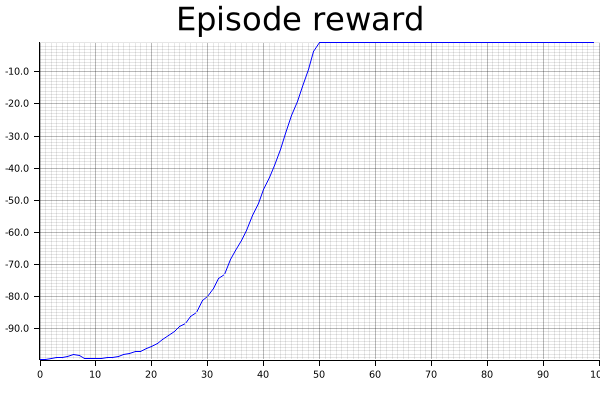
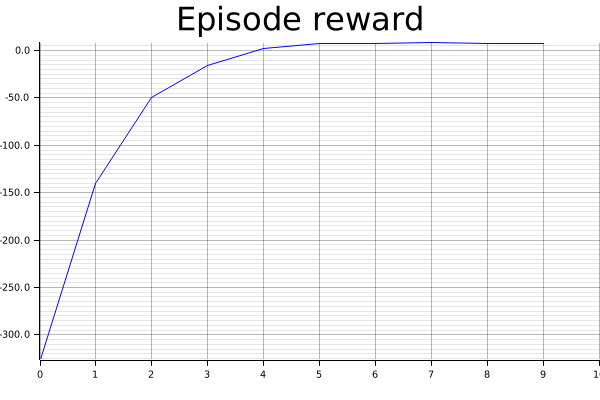
adding taxi env

diff --git a/src/main.rs b/src/main.rs
@@ -7,26 +7,27 @@ use plotters::style::{BLUE, WHITE};
 
 use reinforcement_learning::algorithms::action_selection::{UniformEpsilonGreed, UpperConfidenceBound};
 use reinforcement_learning::algorithms::policy_update::{QStep, SarsaStep, SarsaLambda, QLambda};
-use reinforcement_learning::env::{BlackJackEnv, Env, EnvNotReady, FrozenLakeEnv, CliffWalkingEnv};
+use reinforcement_learning::env::{Env, EnvNotReady, BlackJackEnv, FrozenLakeEnv, CliffWalkingEnv, TaxiEnv};
 use reinforcement_learning::utils::moving_average;
 use reinforcement_learning::{Agent, Policy};
 
 fn main() {
     let learning_rate: f64 = 0.05;
-    let n_episodes: i32 = 1_000_000;
+    let n_episodes: i32 = 100_000;
     let start_epsilon: f64 = 1.0;
     let epsilon_decay: f64 = start_epsilon / (n_episodes as f64 / 2.0);
     let final_epsilon: f64 = 0.0;
     let confidence_level: f64 = 0.8;
     let discount_factor: f64 = 0.95;
     let lambda_factor: f64 = 0.5;
-    let max_steps = 1000;
+    let max_steps: u128 = 100;
     // let mut env = BlackJackEnv::new();
     // let mut env = FrozenLakeEnv::new(&FrozenLakeEnv::MAP_4X4, true, max_steps);
-    let mut env = CliffWalkingEnv::new(max_steps);
+    // let mut env = CliffWalkingEnv::new(max_steps);
+    let mut env = TaxiEnv::new(max_steps);
 
-    // let policy_update_strategy = QLambda::new(learning_rate, discount_factor, lambda_factor, 0.0, env.action_space());
-    let policy_update_strategy = QStep::new(learning_rate, discount_factor);
+    let policy_update_strategy = QLambda::new(learning_rate, discount_factor, lambda_factor, 0.0, env.action_space());
+    // let policy_update_strategy = QStep::new(learning_rate, discount_factor);
     let action_selection_strategy = UniformEpsilonGreed::new(start_epsilon, epsilon_decay, final_epsilon);
     // let action_selection_strategy = UpperConfidenceBound::new(confidence_level);
     let policy = Policy::new(0.0, env.action_space());
@@ -40,8 +41,36 @@ fn main() {
 
     let mut reward_history: Vec<f64> = vec![];
 
+    // manual test
+    // use std::io;
+    // let mut curr_obs = env.reset();
+    // let mut final_reward = 0.0;
+    // loop {
+    //     let (row,col,source,target) = TaxiEnv::decode(curr_obs);
+    //     println!("curr_pos {:?}", (row, col));
+    //     println!("curr_source {:?}", if source < 4 {TaxiEnv::LOCS[source]} else {(row, col)});
+    //     println!("curr_target {:?}", TaxiEnv::LOCS[target]);
+    //     println!("actions {:?}", TaxiEnv::ACTIONS);
+    //     let mut user_input = String::new();
+    //     io::stdin().read_line(&mut user_input).unwrap();
+    //     user_input = user_input.trim().to_string();
+    //     println!("input {} ", user_input);
+    //     let curr_action: usize = user_input.parse::<usize>().unwrap();
+    //     println!("curr_action {:?}", curr_action);
+    //     let (next_obs, reward, terminated) = env.step(curr_action).unwrap();
+    //     println!("reward {:?}", reward);
+    //     final_reward += reward;
+    //     curr_obs = next_obs;
+    //     if terminated {
+    //         println!("final_obs {:?}", TaxiEnv::decode(curr_obs));
+    //         println!("final_reward {:?}", final_reward);
+    //         break;
+    //     }
+    // }
+
     let now: Instant = Instant::now();
     for _episode in 0..n_episodes {
+        let mut epi_reward = 0.0;
         let mut curr_obs = env.reset();
         let mut curr_action: usize = agent.get_action(&curr_obs);
         // println!("curr_obs {:?}", curr_obs);
@@ -62,8 +91,9 @@ fn main() {
                     // println!("curr_action {:?}", next_action);
                     curr_obs = next_obs;
                     curr_action = next_action;
+                    epi_reward += reward;
                     if terminated {
-                        reward_history.push(reward);
+                        reward_history.push(epi_reward);
                         break;
                     }
                 }
@@ -77,10 +107,11 @@ fn main() {
     let elapsed: std::time::Duration = now.elapsed();
     println!("Elapsed: {:.2?}", elapsed);
 
-    let values_moving_average: Vec<f64> =
-        moving_average(n_episodes as usize / 100, &reward_history);
+    let values_moving_average: Vec<f64> = moving_average(n_episodes as usize / 100, &reward_history);
     let min_reward = values_moving_average.iter().copied().reduce(f64::min).unwrap();
     let max_reward = values_moving_average.iter().copied().reduce(f64::max).unwrap();
+
+    println!("min {:?}, max {:?}", min_reward, max_reward);
 
     let root_area = BitMapBackend::new("test.png", (600, 400)).into_drawing_area();
     root_area.fill(&WHITE).unwrap();
@@ -102,30 +133,34 @@ fn main() {
     ))
     .unwrap();
 
-    let mut curr_obs = env.reset();
-    let mut curr_action: usize = agent.get_action(&curr_obs);
-    let mut steps: i32 = 0;
-    loop {
-        steps+=1;
-        match env.step(curr_action) {
-            Ok((next_obs, reward, terminated)) => {
-                let next_action: usize = agent.get_action(&next_obs);
-                println!("curr_obs {:?}", curr_obs);
-                println!("curr_action {:?}", curr_action);
-                println!("reward {:?}", reward);
-                curr_obs = next_obs;
-                curr_action = next_action;
-                if terminated {
-                    println!("next_obs {:?}", curr_obs);
-                    println!("terminated with {:?} steps", steps);
-                    break;
-                }
-            }
-            Err(EnvNotReady) => {
-                println!("Environment is not ready to receive actions!");
-                break;
-            }
-        }
-    }
+
+    // let mut epi_reward = 0.0;
+    // let mut curr_obs = env.reset();
+    // let mut curr_action: usize = agent.get_action(&curr_obs);
+    // let mut steps: i32 = 0;
+    // for _i in 0..100 {
+    //     steps+=1;
+    //     match env.step(curr_action) {
+    //         Ok((next_obs, reward, terminated)) => {
+    //             let next_action: usize = agent.get_action(&next_obs);
+    //             println!("curr_obs {:?}", curr_obs);
+    //             println!("curr_action {:?}", curr_action);
+    //             println!("reward {:?}", reward);
+    //             curr_obs = next_obs;
+    //             curr_action = next_action;
+    //             epi_reward+=reward;
+    //             if terminated {
+    //                 println!("curr_obs {:?}", curr_obs);
+    //                 println!("episode reward {:?}", epi_reward);
+    //                 println!("terminated with {:?} steps", steps);
+    //                 break;
+    //             }
+    //         }
+    //         Err(EnvNotReady) => {
+    //             println!("Environment is not ready to receive actions!");
+    //             break;
+    //         }
+    //     }
+    // }
 
 }

diff --git a/src/env/taxi.rs b/src/env/taxi.rs
@@ -1,0 +1,152 @@
+use std::cmp::{min, max};
+
+use rand::{distributions::Uniform, prelude::Distribution};
+
+use crate::{env::{Env, ActionSpace, EnvNotReady}, utils::categorical_sample};
+
+#[derive(Debug, Clone)]
+pub struct TaxiEnv {
+    ready: bool,
+    initial_state_distrib: [f64;500],
+    obs: [[(usize, f64, bool); 6]; 500],
+    taxi_pos: usize,
+    max_steps: u128,
+    curr_step: u128
+}
+
+impl TaxiEnv {
+    const MAP: [&str;7] = [
+        "+---------+",
+        "|R: | : :G|",
+        "| : | : : |",
+        "| : : : : |",
+        "| | : | : |",
+        "|Y| : |B: |",
+        "+---------+",
+    ];
+    pub const LOCS: [(usize, usize); 4] = [(0, 0), (0, 4), (4, 0), (4, 3)];
+    pub const ACTIONS: [&str;6] = ["DOWN", "UP", "RIGHT", "LEFT", "PICKUP", "DROPOFF"];
+
+    fn encode(taxi_row: usize, taxi_col: usize, pass_loc: usize, dest_loc: usize) -> usize{
+        let mut i: usize = taxi_row;
+        i *= 5;
+        i += taxi_col;
+        i *= 5;
+        i += pass_loc;
+        i *= 4;
+        i += dest_loc;
+        return i;
+    }
+
+    pub fn decode(i: usize) -> (usize, usize, usize, usize) {
+        let mut out: (usize, usize, usize, usize) = (0,0,0,0);
+        let mut state = i;
+        out.3 = state % 4;
+        state /= 4;
+        out.2 = state % 5;
+        state /= 5;
+        out.1 = state % 5;
+        state /= 5;
+        out.0 = state;
+        return out;
+    }
+
+    pub fn new(max_steps: u128) -> Self {
+        let mut initial_state_distrib: [f64; 500] = [0.0; 500];
+        let mut obs: [[(usize, f64, bool); 6]; 500] = [[(0, 0.0, false);6]; 500];
+        let mut sum: f64 = 0.0; 
+        for row in 0..5 {
+            for col in 0..5 {
+                for pass_loc in 0..5 {
+                    for dest_loc in 0..4 {
+                        let state = Self::encode(row, col, pass_loc, dest_loc);
+                        if pass_loc < 4 && pass_loc != dest_loc {
+                            initial_state_distrib[state] += 1.0;
+                            sum += 1.0;
+                        }
+                        for action in 0..6 {
+                            let (mut new_row, mut new_col, mut new_pass_loc) = (row, col, pass_loc);
+                            let mut reward = -1.0; // default reward when there is no pickup/dropoff
+                            let mut terminated = false;
+                            let taxi_loc = (row, col);
+                            
+                            if action == 0 {
+                                new_row = min(row + 1, 4)
+                            } else if action == 1 {
+                                new_row = if row != 0 { max(row - 1, 0) } else {0};
+                            }
+                            if action == 2 && Self::MAP[1 + row].get((2 * col + 2)..(2 * col + 2)+1).unwrap() == ":" {
+                                new_col = min(col + 1, 4)
+                            } else if action == 3 && Self::MAP[1 + row].get((2 * col)..(2 * col)+1).unwrap() == ":" {
+                                new_col = if col != 0 { max(col - 1, 0) } else {0};
+                            } else if action == 4 {  // pickup
+                                if pass_loc < 4 && taxi_loc == Self::LOCS[pass_loc] {
+                                    new_pass_loc = 4;
+                                } else {  // passenger not at location
+                                    reward = -10.0;
+                                }
+                            } else if action == 5 {  // dropoff
+                                if (taxi_loc == Self::LOCS[dest_loc]) && pass_loc == 4 {
+                                    new_pass_loc = dest_loc;
+                                    terminated = true;
+                                    reward = 20.0;
+                                } else {  // dropoff at wrong location
+                                    reward = -10.0;
+                                }
+                            }
+                            let new_state = Self::encode(new_row, new_col, new_pass_loc, dest_loc);
+                            obs[state][action] = (new_state, reward, terminated);
+                        }
+                    }
+                }
+            }
+        }
+
+        for i in 0..500 {
+            initial_state_distrib[i] = initial_state_distrib[i]/sum;
+        }
+
+        let env: TaxiEnv = Self {
+            ready: false,
+            initial_state_distrib,
+            obs,
+            taxi_pos: 0,
+            max_steps,
+            curr_step: 0
+        };
+        return env; 
+    }
+}
+
+impl Env<usize> for TaxiEnv {
+    fn reset(&mut self) -> usize {
+        let dist: Uniform<f64> = Uniform::from(0.0..1.0);
+        let random: f64 = dist.sample(&mut rand::thread_rng());
+        self.taxi_pos = categorical_sample(&self.initial_state_distrib.to_vec(), random);
+        self.ready = true;
+        self.curr_step = 0;
+        return self.taxi_pos;
+    }
+
+    fn step(&mut self, action: usize) -> Result<(usize, f64, bool), EnvNotReady> {
+        if !self.ready {
+            return Err(EnvNotReady);
+        }
+        if self.curr_step >= self.max_steps {
+            self.ready = false;
+            return Ok((0, 0.0, true))
+        }
+        self.curr_step += 1;
+        let obs: (usize, f64, bool) = self.obs[self.taxi_pos][action];
+        self.taxi_pos = obs.0;
+        if obs.2 {
+            self.ready = false;
+        }
+        return Ok(obs);
+    }
+
+    fn action_space(&self) -> ActionSpace {
+        return ActionSpace::new(6);
+    }
+    
+}

diff --git a/src/env.rs b/src/env.rs
@@ -2,6 +2,7 @@ mod action_space;
 mod blackjack;
 mod frozen_lake;
 mod cliff_walking;
+mod taxi;
 
 #[derive(Debug, Clone)]
 pub struct EnvNotReady;
@@ -17,3 +18,4 @@ pub use action_space::ActionSpace;
 pub use blackjack::BlackJackEnv;
 pub use frozen_lake::FrozenLakeEnv;
 pub use cliff_walking::CliffWalkingEnv;
+pub use taxi::TaxiEnv;

diff --git a/src/utils.rs b/src/utils.rs
@@ -43,7 +43,7 @@ pub fn inc(nrow: usize, ncol: usize, row: usize, col: usize, a: usize) -> (usize
         new_col = col;
         new_row = if row != 0 { max(row - 1, 0) } else {0};
     } else {
-        panic!("Invalid action! {:?}", a);
+        return (row, col)
     }
     return (new_row, new_col)
 }
